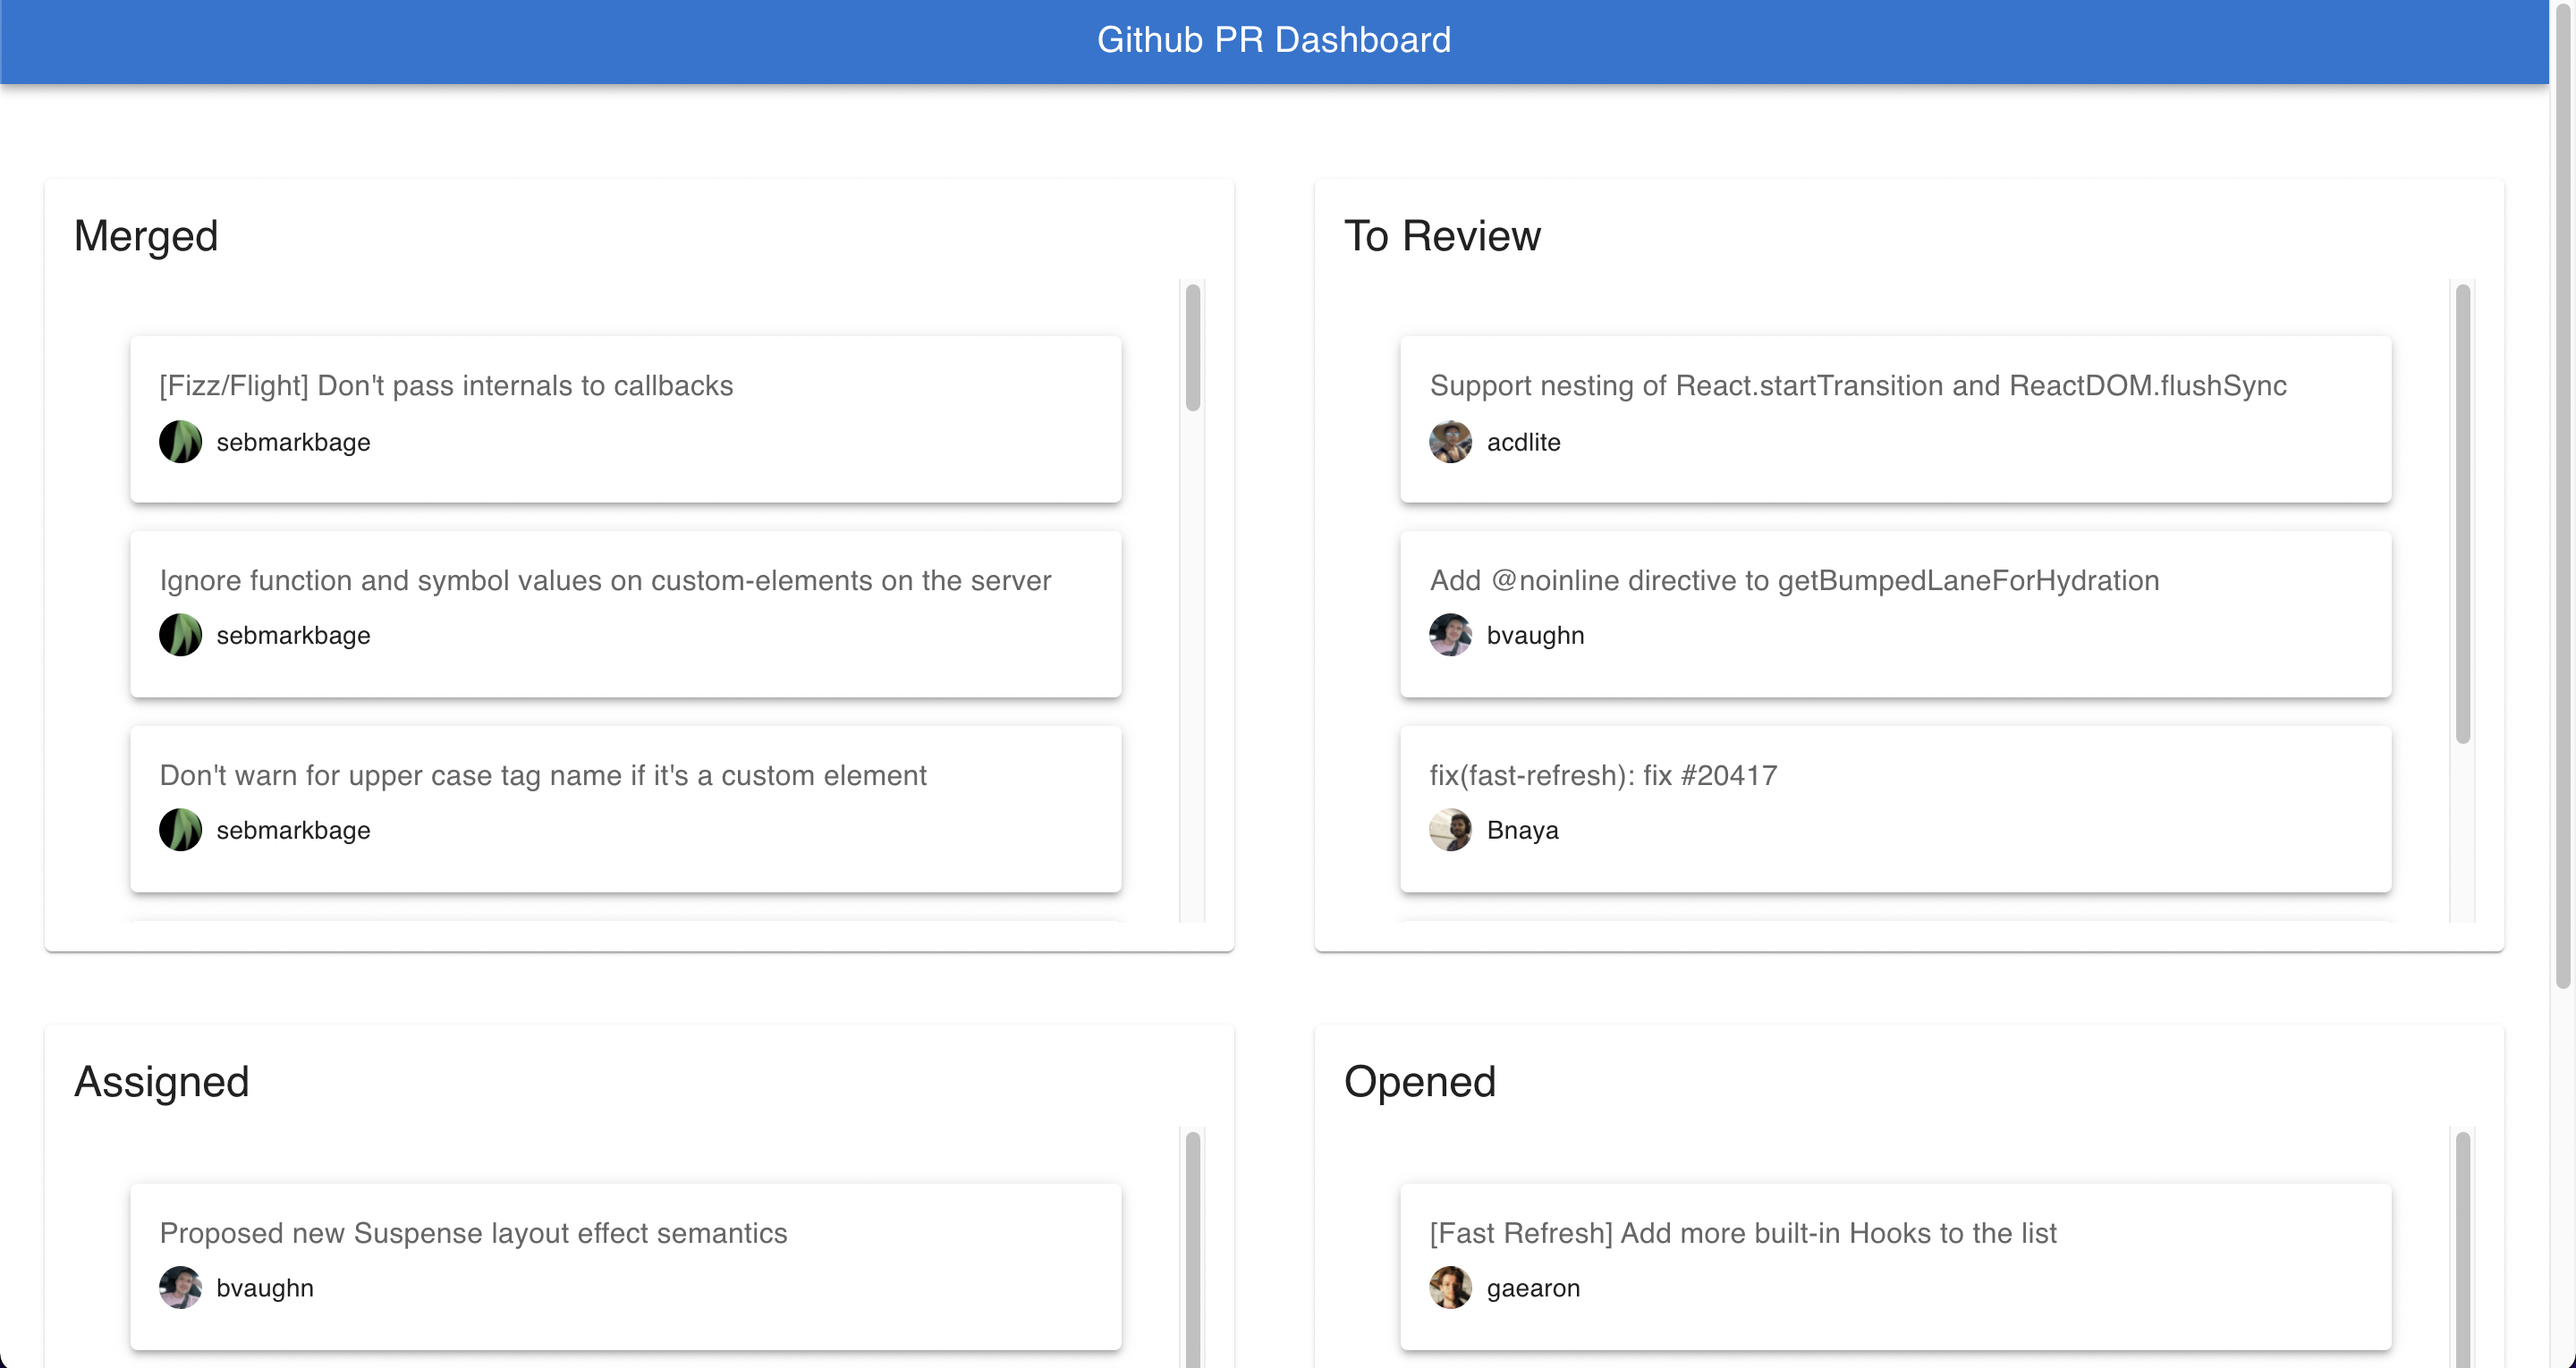
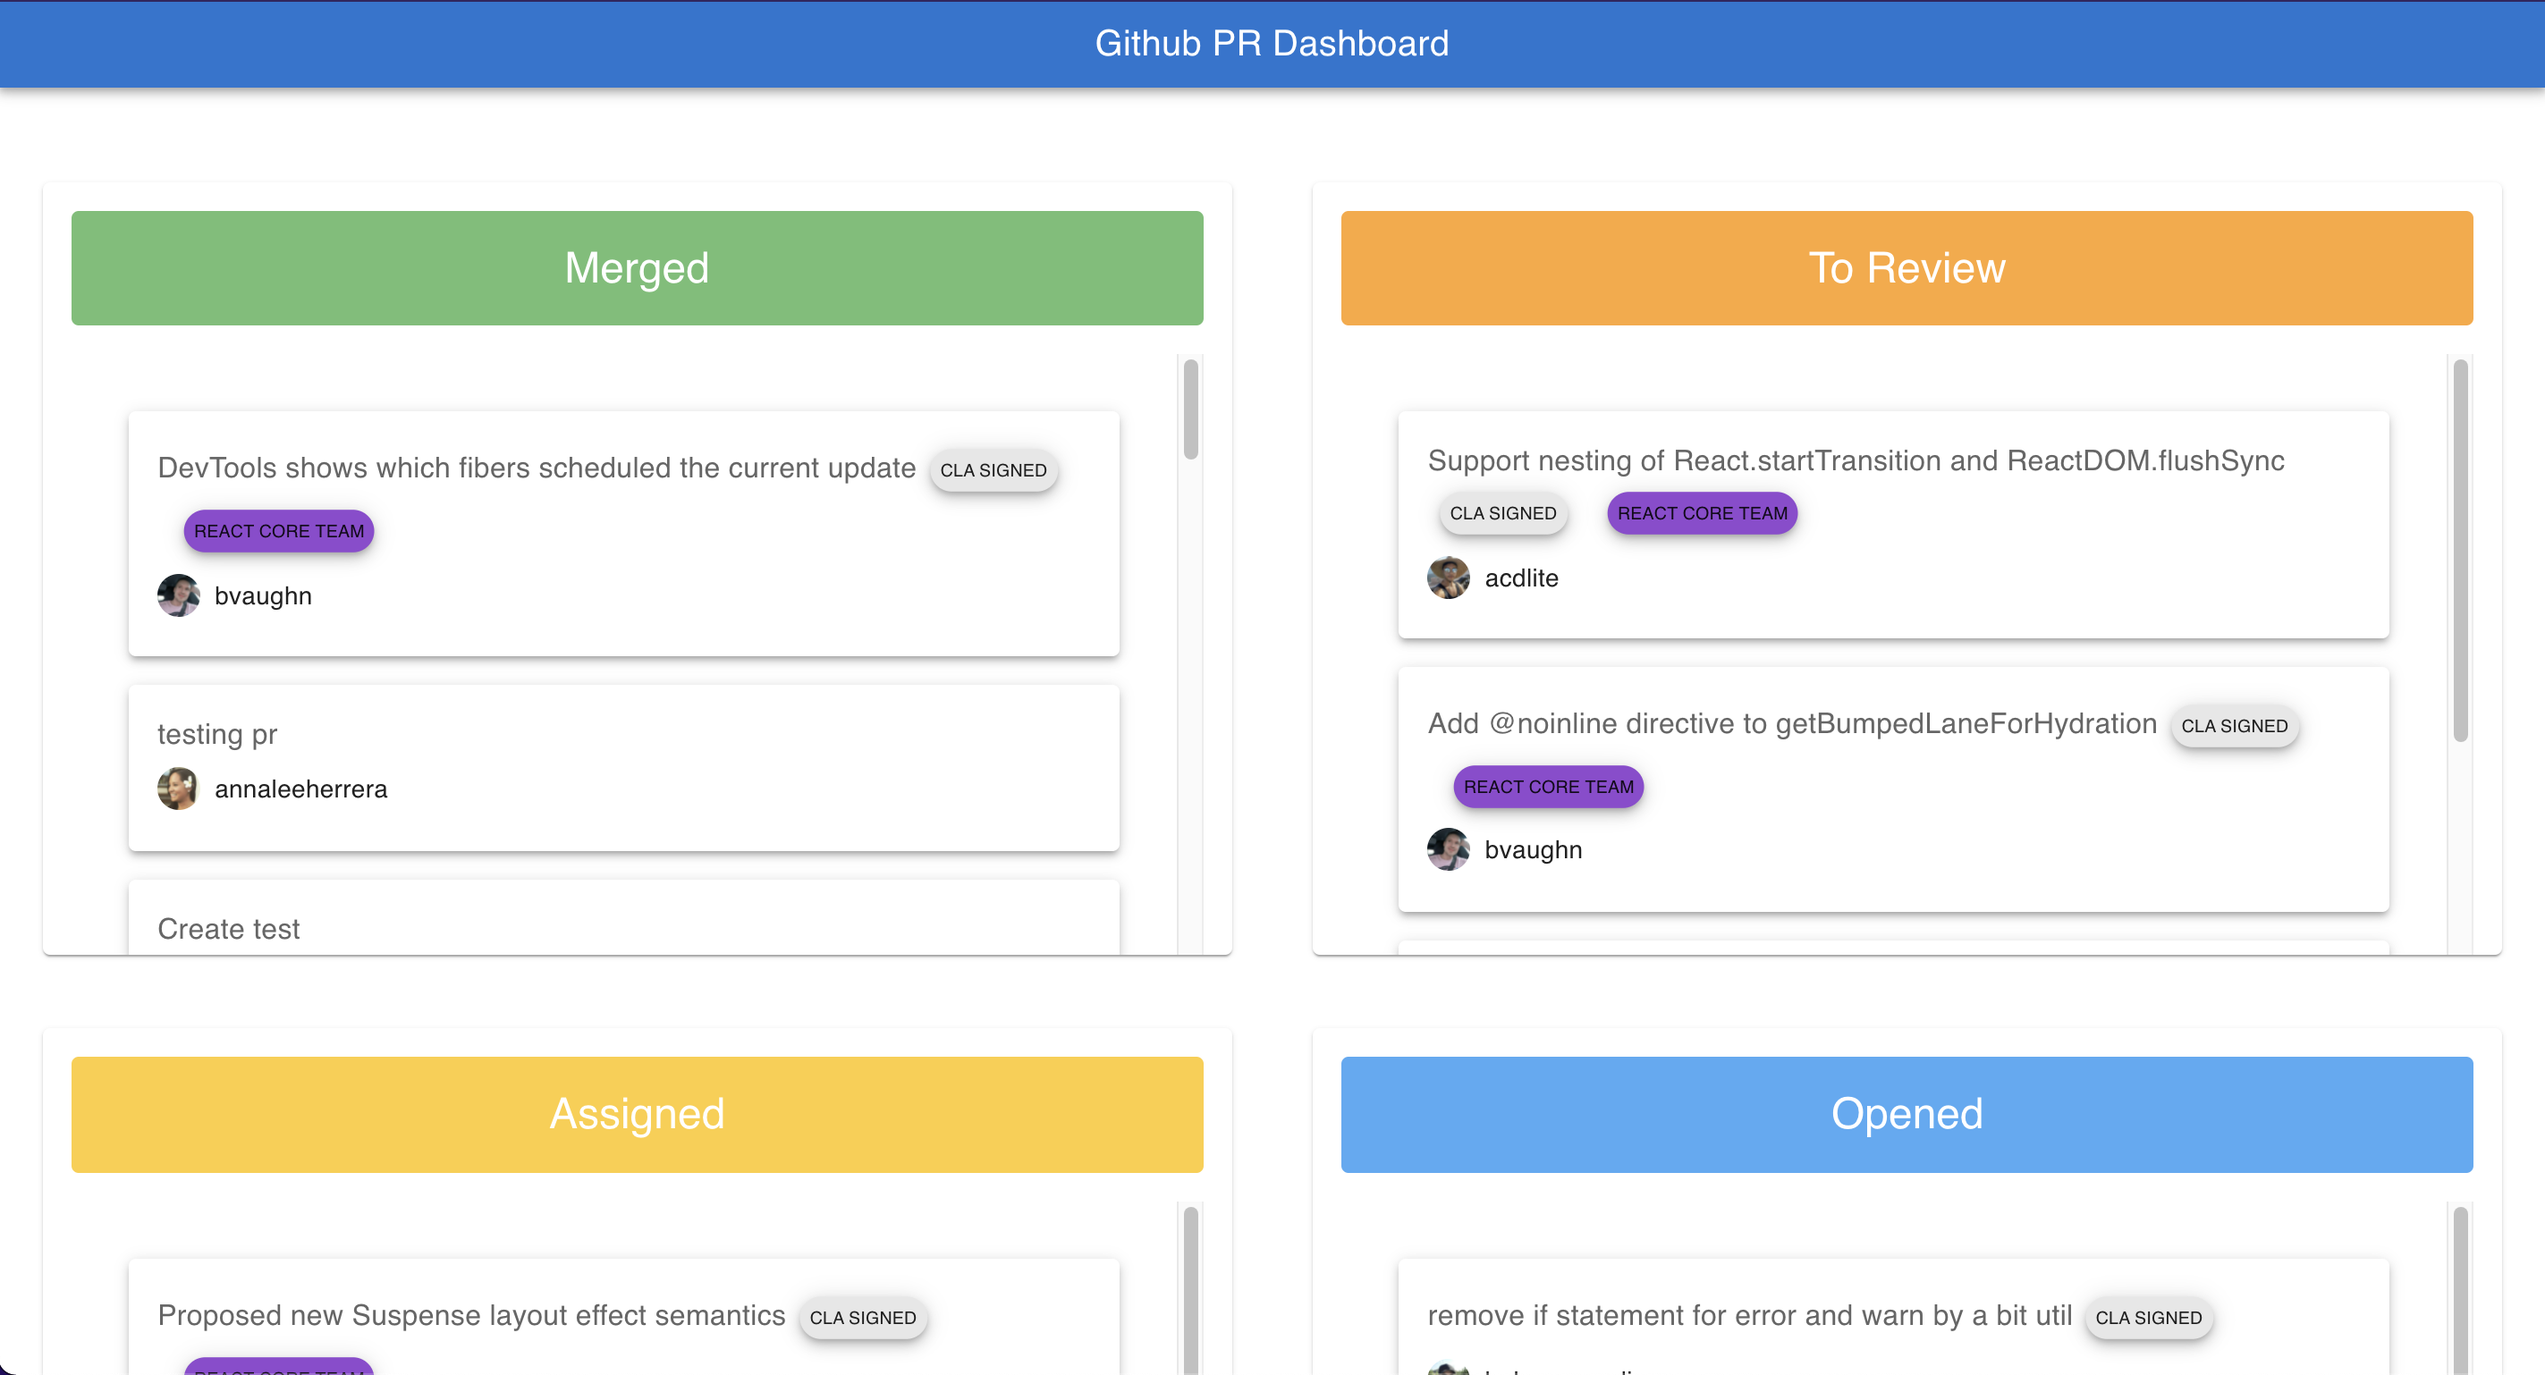
Added colors to the containers

diff --git a/src/components/Container/Container.js b/src/components/Container/Container.js
@@ -1,7 +1,7 @@
 //This component renders the columns and passes the filtered data to next component(List)
 
 //React's and apollo's dependencies
-import { React, useEffect, useState, useMemo } from "react";
+import { React, useEffect, useState, useMemo, useCallback } from "react";
 import { useQuery } from "@apollo/client";
 
 //Material UI dependencies
@@ -12,6 +12,7 @@ import {
   Box,
   Toolbar,
   Typography,
+  Stack,
 } from "@mui/material";
 
 //Local dependencies
@@ -55,6 +56,28 @@ const Container = () => {
     [pullRequests] // Filtering and populating all the PRs who has assignee.
   );
 
+  // We are using this util function to assign a background color based on the column's identifier.
+  const setColor = useCallback((identifier) => {
+    let color = "";
+    switch (identifier) {
+      case "merge":
+        color = "#6fbf73";
+        break;
+      case "pending":
+        color = "#4dabf5";
+        break;
+      case "assigned":
+        color = "#ffcd38";
+        break;
+      case "review":
+        color = "#ffa733";
+        break;
+      default:
+        color = "";
+    }
+    return color;
+  }, []);
+
   return (
     <>
       {/* The Box component by the MaterialUI is responsible for display the header */}
@@ -90,17 +113,33 @@ const Container = () => {
           containers &&
           containers.map((containerName, i) => (
             <Card className="card" key={i}>
-              {/* <Stack
+              {/* The Stack is a Material UI component, it will display a content inside a square box */}
+              <Stack
                 direction="row"
                 alignItems="center"
                 justifyContent="space-between"
-                sx={{ px: 2, py: 1, bgcolor: "#2196f3" }}
+                sx={{
+                  px: 2,
+                  py: 1,
+                  mb: 2,
+                  bgcolor: setColor(containerName.identifier), //Here we are calling the setColor function to dynamically assigning a background color based on name/identifier of the container.
+                  color: "#FFFFFF",
+                  borderRadius: "4px",
+                }}
               >
-              
-              </Stack> */}
-              <Typography gutterBottom variant="h5" component="div">
-                {containerName.title}
-              </Typography>
+                <Typography
+                  gutterBottom
+                  variant="h5"
+                  sx={{
+                    width: "100%",
+                    paddingTop: "0.5rem",
+                    textAlign: "center",
+                  }}
+                >
+                  {containerName.title}
+                </Typography>
+              </Stack>
+
               <CardContent className="cardContent">
                 {/* There are in total 4 identifier created on the backend (merge,review,assigned,draft) based on that associating the PRs */}
                 {containerName.identifier === "merge" && closed && (

diff --git a/src/components/List/List.js b/src/components/List/List.js
@@ -34,7 +34,6 @@ const List = ({ data, identifier }) => {
           <Typography variant="body1" color="text.secondary">
             {/* Displays the PR's title */}
             {item.title}
-            {console.log(identifier)}
             {/* Displays the labels associated with the PR, mapping over them since there could be more than 1 labels */}
             {item.labels.map((item) => (
               <Fab
@@ -45,7 +44,9 @@ const List = ({ data, identifier }) => {
                   mr: -1,
                   transform: "scale(0.7)",
                   backgroundColor: `#${item.color}`,
-                  cursor: "default",
+                  "&:hover": {
+                    backgroundColor: `#${item.color}`,
+                  },
                 }}
               >
                 <Typography variant="body2">{item.name}</Typography>

diff --git a/src/index.js b/src/index.js
@@ -5,6 +5,7 @@ import React from "react";
 import ReactDOM from "react-dom";
 import { ApolloClient, InMemoryCache, ApolloProvider } from "@apollo/client";
 
+//Local dependencies
 import Container from "./components/Container";
 import "./index.css";
 
